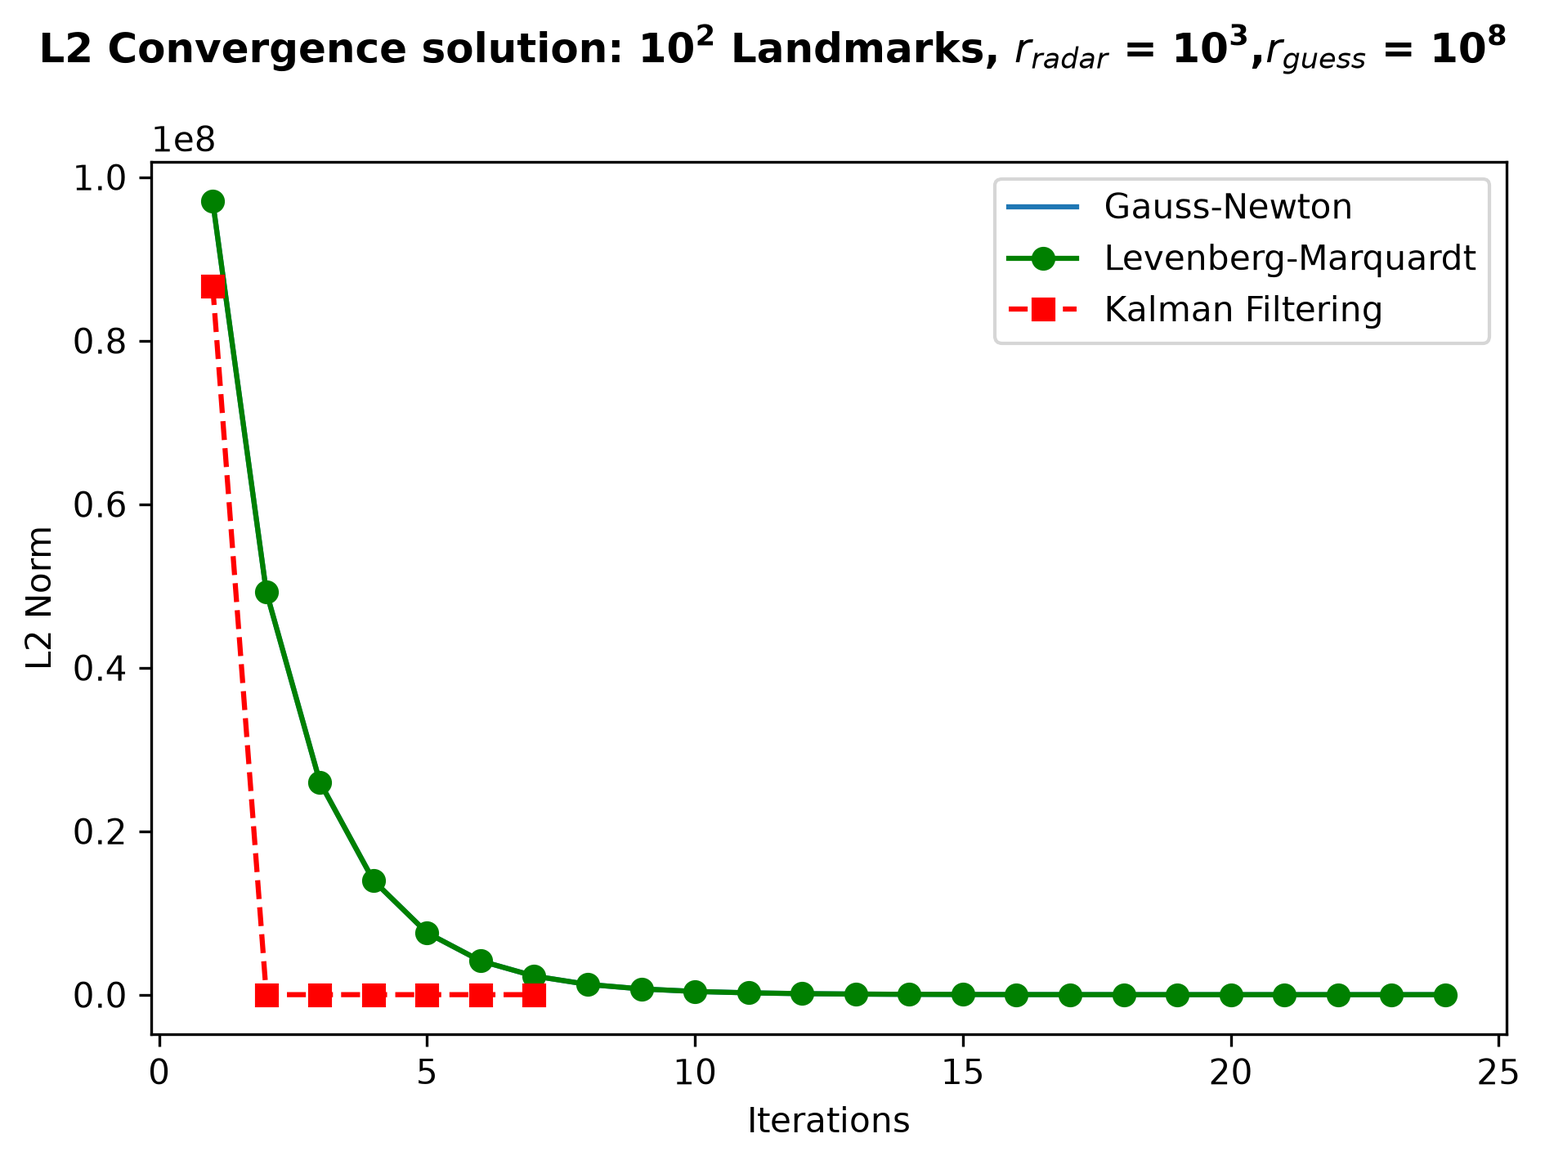
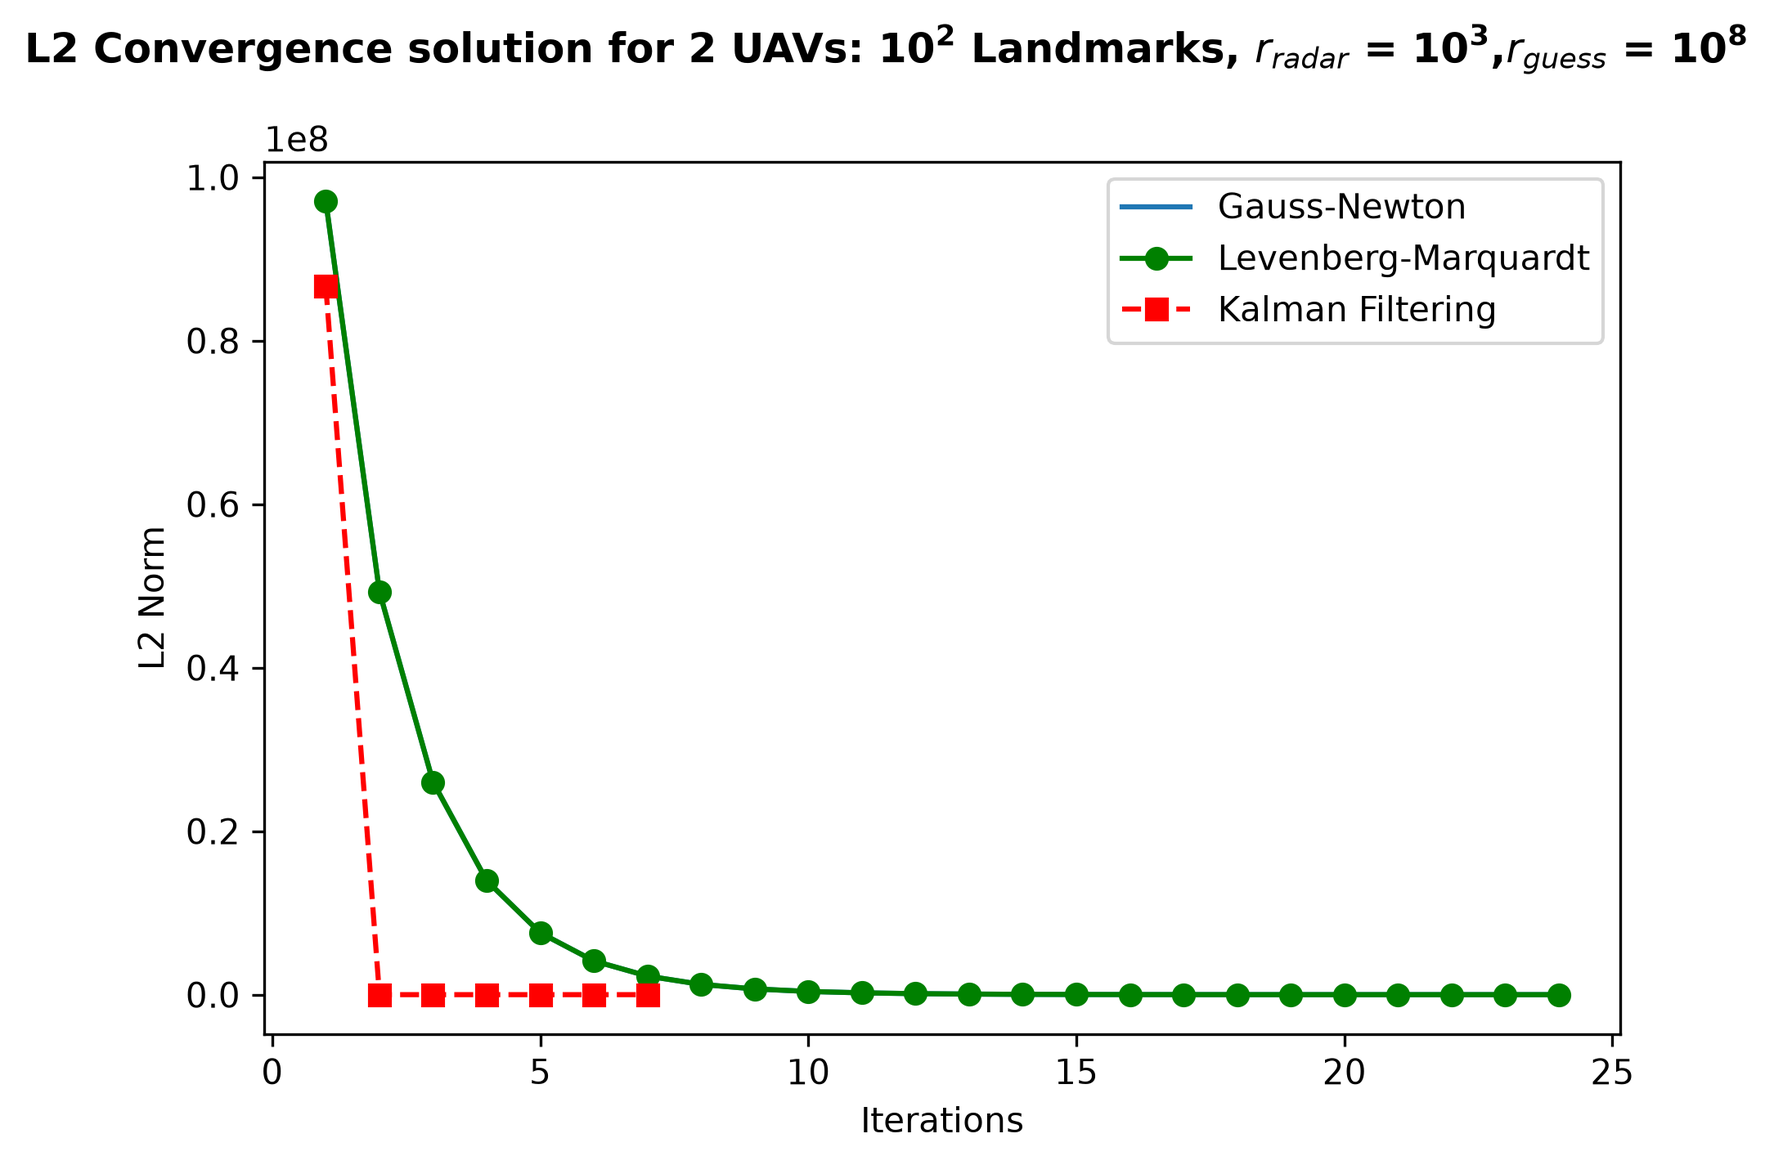
chore: improved technical documentation

diff --git a/UAVTracking_project/scripts/plots_UAVTracking.py b/UAVTracking_project/scripts/plots_UAVTracking.py
@@ -22,7 +22,7 @@ num_of_landmarks = formatter(UAVParameters[0])
 num_of_uavs = int(UAVParameters[1])
 radar_radius = formatter(UAVParameters[2])
 uav_guess_radius = formatter(UAVParameters[3])
-variance =formatter(UAVParameters[4])
+variance = formatter(UAVParameters[4])
 
 
 
@@ -53,7 +53,7 @@ KFWGNdata_iter = KFWGNdata_L2[:,0]
 KFWGNdata_L2Error = KFWGNdata_L2[:,1]
 
 
-plt.suptitle(rf"L2 Convergence solution: {num_of_landmarks} Landmarks, $r_{{radar}}$ = {radar_radius},$r_{{guess}}$ = {uav_guess_radius}",
+plt.suptitle(rf"L2 Convergence solution for {num_of_uavs} UAVs: {num_of_landmarks} Landmarks, $r_{{radar}}$ = {radar_radius},$r_{{guess}}$ = {uav_guess_radius}",
               fontsize=12, fontweight='bold')
 plt.plot(GNnoWGNdata_iter,GNnoWGNdata_L2Error, label='Gauss-Newton')
 plt.plot(LMnoWGNdata_iter,LMnoWGNdata_L2Error, color = 'g', marker = 'o',linestyle='-',label='Levenberg-Marquardt')
@@ -65,7 +65,7 @@ plt.tight_layout()
 plt.savefig('../plots/L2ConvergenceSolution.png', dpi=300, bbox_inches='tight')
 plt.show()
 
-plt.suptitle(rf"L2 Convergence solution, WGN: {num_of_landmarks} Landmarks,  $r_{{radar}}$ = {radar_radius}, $r_{{guess}}$ = {uav_guess_radius},$\sigma^2$ = {variance}",
+plt.suptitle(rf"L2 Convergence solution for {num_of_uavs} UAVs, WGN: {num_of_landmarks} Landmarks,  $r_{{radar}}$ = {radar_radius}, $r_{{guess}}$ = {uav_guess_radius},$\sigma^2$ = {variance}",
               fontsize=12, fontweight='bold')
 plt.plot(GNWGNdata_iter,GNWGNdata_L2Error, label='Gauss-Newton')
 plt.plot(LMWGNdata_iter,LMWGNdata_L2Error, color = 'g', marker = 'o',linestyle='-',label='Levenberg-Marquardt')
@@ -105,7 +105,7 @@ KFWGNdata_iterRes = KFWGNdata_L2Res[:,0]
 KFWGNdata_L2ErrorRes = KFWGNdata_L2Res[:,1]
 
 
-plt.suptitle(rf"L2 Convergence residual: {num_of_landmarks} Landmarks, $r_{{radar}}$ = {radar_radius}, $r_{{guess}}$ = {uav_guess_radius}",
+plt.suptitle(rf"L2 Convergence residual for {num_of_uavs} UAVs: {num_of_landmarks} Landmarks, $r_{{radar}}$ = {radar_radius}, $r_{{guess}}$ = {uav_guess_radius}",
               fontsize=12, fontweight='bold')
 plt.plot(GNnoWGNdata_iterRes,GNnoWGNdata_L2ErrorRes, label='Gauss-Newton')
 plt.plot(LMnoWGNdata_iter,LMnoWGNdata_L2ErrorRes, color = 'g', marker = 'o',linestyle='-',label='Levenberg-Marquardt')
@@ -118,7 +118,7 @@ plt.savefig('../plots/L2ConvergenceResidual.png', dpi=300, bbox_inches='tight')
 plt.legend()
 plt.show()
 
-plt.suptitle(rf"L2 Convergence residual, WGN: {num_of_landmarks} Landmarks, $r_{{radar}}$ = {radar_radius},$r_{{guess}}$ = {uav_guess_radius}, $\sigma^2$ = {variance}",
+plt.suptitle(rf"L2 Convergence residual for {num_of_uavs} UAVs, WGN: {num_of_landmarks} Landmarks, $r_{{radar}}$ = {radar_radius},$r_{{guess}}$ = {uav_guess_radius}, $\sigma^2$ = {variance}",
              fontsize=12, fontweight='bold')
 plt.plot(GNWGNdata_iterRes,GNWGNdata_L2ErrorRes, label='Gauss-Newton')
 plt.plot(LMWGNdata_iterRes,LMWGNdata_L2ErrorRes, color = 'g', marker = 'o',linestyle='-',label='Levenberg-Marquardt')
@@ -161,7 +161,7 @@ KFWGNdata_iterTime = KFWGNdata_Time[:,0]
 KFWGNdata_errorTime = KFWGNdata_Time[:,1]
 
 
-plt.suptitle(rf"Elapsed Time: {num_of_landmarks} Landmarks, $r_{{radar}}$ = {radar_radius},$r_{{guess}}$ = {uav_guess_radius}", fontsize=12,
+plt.suptitle(rf"Elapsed Time for {num_of_uavs} UAVs: {num_of_landmarks} Landmarks, $r_{{radar}}$ = {radar_radius},$r_{{guess}}$ = {uav_guess_radius}", fontsize=12,
               fontweight='bold')
 plt.plot(GNnoWGNdata_iterTime,GNnoWGNdata_errorTime, label='Gauss-Newton')
 plt.plot(LMnoWGNdata_iterTime,LMnoWGNdata_errorTime, color = 'g', marker = 'o',linestyle='-',label='Levenberg-Marquardt')
@@ -174,7 +174,7 @@ plt.savefig('../plots/ElapsedTime.png', dpi=300, bbox_inches='tight')
 plt.legend()
 plt.show()
 
-plt.suptitle(rf" Elapsed Time, WGN: {num_of_landmarks} Landmarks,  $r_{{radar}}$ = {radar_radius},$r_{{guess}}$ = {uav_guess_radius}, $\sigma^2$ = {variance}",
+plt.suptitle(rf" Elapsed Time for {num_of_uavs} UAVs, WGN: {num_of_landmarks} Landmarks,  $r_{{radar}}$ = {radar_radius},$r_{{guess}}$ = {uav_guess_radius}, $\sigma^2$ = {variance}",
              fontsize=12, fontweight='bold')
 plt.plot(GNWGNdata_iterTime,GNWGNdata_errorTime, label='Gauss-Newton')
 plt.plot(LMWGNdata_iterTime,LMWGNdata_errorTime, color = 'g', marker = 'o',linestyle='-',label='Levenberg-Marquardt')
@@ -292,19 +292,19 @@ def plotTelemetryBenchmark(iterTruth,iterEst,coordTruth,coordEst,Estmethod,n):
         # Panel for x-axis
         axs[0].plot(iterEst, EstcoordX, marker = 'o',linestyle='-', color='red', linewidth=2, label=rf'Estimated coordinate, UAV {i+1}')
         axs[0].plot(iterTruth, TruthcoordX, color='blue', linewidth=2, label =rf"Ground truth coordinate, UAV {i+1}")
-        axs[0].axhline(y=TruthcoordX[-1], color='green', linestyle='--', alpha=0.5)
+        axs[0].axhline(y=TruthcoordX[-1], color='green', linestyle='--', label = rf"Final Ground truth coordinate, UAV {i+1}", alpha=0.5)
         axs[0].set_ylabel("X-axis")
 
         # Panel for y-axis
         axs[1].plot(iterEst, EstcoordY, marker = 'o',linestyle='-', color='red', linewidth=2, label=rf'Estimated coordinate, UAV {i+1}')
         axs[1].plot(iterTruth, TruthcoordY, color='blue', linewidth=2, label=rf'Ground truth coordinate, UAV {i+1}')
-        axs[1].axhline(y=TruthcoordY[-1], color='green', linestyle='--', alpha=0.5)
+        axs[1].axhline(y=TruthcoordY[-1], color='green', linestyle='--',label = rf"Final Ground truth coordinate, UAV {i+1}", alpha=0.5)
         axs[1].set_ylabel("Y-axis")
 
         # Panel for z-axis
         axs[2].plot(iterEst, EstcoordZ, marker = 'o',linestyle='-', color='red', linewidth=2, label=rf'Estimated coordinate, UAV {i+1}')
         axs[2].plot(iterTruth, TruthcoordZ, color='blue', linewidth=2, label=rf'Ground truth coordinate, UAV {i+1}')
-        axs[2].axhline(y=TruthcoordZ[-1], color='green', linestyle='--', alpha=0.5)
+        axs[2].axhline(y=TruthcoordZ[-1], color='green', linestyle='--',label = rf"Final Ground truth coordinate, UAV {i+1}", alpha=0.5)
         axs[2].set_ylabel("Z-axis")
 
         for ax in axs:
@@ -332,19 +332,19 @@ def plotTelemetryBenchmark_WGN(iterTruth,iterEst,coordTruth,coordEst,Estmethod,n
         # Panel for x-axis
         axs[0].plot(iterEst, EstcoordX, marker = 'o',linestyle='-', color='red', linewidth=2, label=rf'Estimated coordinate, UAV {i+1}')
         axs[0].plot(iterTruth, TruthcoordX, color='blue', linewidth=2, label =rf"Ground truth coordinate, UAV {i+1}")
-        axs[0].axhline(y=TruthcoordX[-1], color='green', linestyle='--', alpha=0.5)
+        axs[0].axhline(y=TruthcoordX[-1], color='green', linestyle='--',label = rf"Final Ground truth coordinate, UAV {i+1}", alpha=0.5)
         axs[0].set_ylabel("X-axis")
 
         # Panel for y-axis
         axs[1].plot(iterEst, EstcoordY, marker = 'o',linestyle='-', color='red', linewidth=2, label=rf'Estimated coordinate, UAV {i+1}')
         axs[1].plot(iterTruth, TruthcoordY, color='blue', linewidth=2, label=rf'Ground truth coordinate, UAV {i+1}')
-        axs[1].axhline(y=TruthcoordY[-1], color='green', linestyle='--', alpha=0.5)
+        axs[1].axhline(y=TruthcoordY[-1], color='green', linestyle='--',label = rf"Final Ground truth coordinate, UAV {i+1}", alpha=0.5)
         axs[1].set_ylabel("Y-axis")
 
         # Panel for z-axis
         axs[2].plot(iterEst, EstcoordZ, marker = 'o',linestyle='-', color='red', linewidth=2, label=rf'Estimated coordinate, UAV {i+1}')
         axs[2].plot(iterTruth, TruthcoordZ, color='blue', linewidth=2, label=rf'Ground truth coordinate, UAV {i+1}')
-        axs[2].axhline(y=TruthcoordZ[-1], color='green', linestyle='--', alpha=0.5)
+        axs[2].axhline(y=TruthcoordZ[-1], color='green', linestyle='--',label = rf"Final Ground truth coordinate, UAV {i+1}", alpha=0.5)
         axs[2].set_ylabel("Z-axis")
 
         for ax in axs:

diff --git a/UAVTracking_project/include/LevenbergMarquardt.h b/UAVTracking_project/include/LevenbergMarquardt.h
@@ -19,13 +19,13 @@ MatrixCalculations<T> matcalc;
 public:
 
 //A term based on the Trust Region logic for the Levenberg-Marquardt method
-auto GainRatio(TrackingParameters& trackingParams, const Matrix<T>& R, const Matrix<T>& b_tilde,const Matrix<T>& x_dir_vec, const T& lambda)const{
-
+auto GainRatio(TrackingParameters& trackingParams, const Matrix<T>& R, const Matrix<T>& b_tilde,const Matrix<T>& x_dir_vec)const{
+//Transform vectorized step to appropriate matrix form
 Matrix<T> transformedSolution = matcalc.transformVectorToMatrix(x_dir_vec,trackingParams.UAVGuess.getRows());
 Matrix<T> x_trial = trackingParams.UAVGuess + transformedSolution;
 T nom = 0.0;
 T rho = 0.0;
-//Expected cost function value
+//Actual cost function value
 for(size_t i = 0;i < transformedSolution.getRows();i++){
    Matrix<T> row_vec1 = trackingParams.UAVGuess.getRow(i);
    Matrix<T> row_vec2 = x_trial.getRow(i);
@@ -33,9 +33,9 @@ for(size_t i = 0;i < transformedSolution.getRows();i++){
    T nom_2 = matcalc.square(matcalc.L2Norm(matcalc.distanceMetric(trackingParams.mat,row_vec2)));
    nom += 0.5*(nom_1 - nom_2); 
 }
-//Actual cost function value via QR-decomposition
+//Expected cost function value via QR-decomposition
 T denom_term1 = 0.5*(matcalc.square(matcalc.L2Norm(b_tilde)) - matcalc.square(matcalc.L2Norm(R*x_dir_vec - b_tilde)));
-T denom_term2 = 0.5*lambda*matcalc.square(matcalc.L2Norm(x_dir_vec));
+T denom_term2 = 0.5*trackingParams.lambda*matcalc.square(matcalc.L2Norm(x_dir_vec));
 
 T denom = denom_term1 - denom_term2;
 //Preventing NaN-situations
@@ -65,7 +65,7 @@ Matrix<T> dir_vec(R.getRows(),1);
        //Solve least squares problem
        dir_vec = matcalc.BackwardSubstitution(R_filtered,btilde_filtered);
        //Calculate Gain Ratio for making a trial decision
-       T rho = GainRatio(trackingParams,R_filtered,btilde_filtered,dir_vec,trackingParams.lambda);
+       T rho = GainRatio(trackingParams,R_filtered,btilde_filtered,dir_vec);
        std::cout<< "\nLambda: " << trackingParams.lambda << "\n";
        std::cout<< "\nRho: " << rho << "\n";
        if(std::abs(rho) < uavParams.est.rho_threshold || trackingParams.lambda == 0.0){

diff --git a/UAVTracking_project/include/UAVTracking.h b/UAVTracking_project/include/UAVTracking.h
@@ -19,7 +19,9 @@
  *  method. The kinematic model is first-order by the formula x_{k+1} = x_{k} + h*v_{k}
  *  for a velocity vector v_{k} at state k.
  * - Noise sources: In this application, an option to add White Gaussian Noise to the true distances of the UAVs relative to landmarks,
- *  is now possible.
+ *  is now possible. 
+ * Kalman filtering: UAVs in this project are mutually independent meaning that the covariance matrix P that describes the uncertainty in
+ *  the initial state simply is the diagonal matrix with diagonal elements that is the variance for the maximal UAV positional offset. 
 
  * */ 
 
@@ -224,7 +226,8 @@ size_t iter = 0;
 
 //Initialize covariance matrix P for the Kalman filtering approach
 Matrix<T> IdentityMatrix_termP = matcalc.getIdentityMatrix(3*uavParams.dimension.num_of_uavs);
-//P is treated initially as the diagonal matrix consisting of squared maximal UAV positional error measured in meters
+//P is treated initially as the diagonal matrix consisting of squared maximal UAV positional error measured in meters, meaning P measures symmetric
+//uncertainty in the initial states for the UAVs
 Matrix<T> P = IdentityMatrix_termP.scalarMatrix(matcalc.square(uavParams.posParams.maximal_offset));
 TrackingParameters TrackingParams{LandmarkMatrix,UAVTruth,UAVGuess,P,lambda};
 
@@ -238,7 +241,7 @@ while(MissionStillContinuing){
       auto t_start = std::chrono::steady_clock::now();
 
       //Perform kinematic prediction whether the moving UAVs should make a reversed movement in current state or not
-      physconst.predictKinematicMovement(uavParams,TrackingParams.UAVGuess,TrackingParams.UAVTruth,iter,vel_uav_seed,vel_wind_seed);
+      physconst.predictKinematicMovement(uavParams,TrackingParams,iter,vel_uav_seed,vel_wind_seed);
   
       //Solve the numerical estimation problem
       auto est_output = state_est.State_Estimator(uavParams,TrackingParams,varianceParams);

diff --git a/UAVTracking_project/tests/test_StateEstimator.cpp b/UAVTracking_project/tests/test_StateEstimator.cpp
@@ -45,9 +45,9 @@ UAVGuess(0,1) = 1.0;
 UAVGuess(0,2) = 1.0;
 
 TrackingParameters trackingParams{LandmarkMatrix,UAVTruth,UAVGuess,P,lambda};
-auto uft_output = state_est.State_Estimator(uavParams,trackingParams,varianceParams);
-std::cout << "Norm, dir vec: " << uft_output.dir_vec_normval;
-std::cout << "Norm, residual: " << uft_output.res_normval;
+auto est_output = state_est.State_Estimator(uavParams,trackingParams,varianceParams);
+std::cout << "Norm, dir vec: " << est_output.dir_vec_normval;
+std::cout << "Norm, residual: " << est_output.res_normval;
 Matrix<double> x_est(1,3);
 
 x_est(0,0) = 3 - 2*std::sqrt(2);
@@ -106,9 +106,9 @@ UAVGuess(0,2) = 1.0;
 
 TrackingParameters trackingParams{LandmarkMatrix,UAVTruth,UAVGuess,P,lambda};
 
-auto uft_output = state_est.State_Estimator(uavParams,trackingParams,varianceParams);
-std::cout << "Norm, dir vec: " << uft_output.dir_vec_normval;
-std::cout << "Norm, residual: " << uft_output.res_normval;
+auto est_output = state_est.State_Estimator(uavParams,trackingParams,varianceParams);
+std::cout << "Norm, dir vec: " << est_output.dir_vec_normval;
+std::cout << "Norm, residual: " << est_output.res_normval;
 Matrix<double> x_est(1,3);
 
 x_est(0,0) = 3 - 2*std::sqrt(2);
@@ -171,9 +171,9 @@ UAVGuess(0,2) = 1.0;
 
 TrackingParameters trackingParams{LandmarkMatrix,UAVTruth,UAVGuess,P,lambda};
 
-auto uft_output = state_est.State_Estimator(uavParams,trackingParams,varianceParams);
-std::cout << "Norm, dir vec: " << uft_output.dir_vec_normval;
-std::cout << "Norm, residual: " << uft_output.res_normval;
+auto est_output = state_est.State_Estimator(uavParams,trackingParams,varianceParams);
+std::cout << "Norm, dir vec: " << est_output.dir_vec_normval;
+std::cout << "Norm, residual: " << est_output.res_normval;
 Matrix<double> x_est(1,3);
 
 x_est(0,0) = 3 - 2*std::sqrt(2);

diff --git a/UAVTracking_project/include/KalmanFilter.h b/UAVTracking_project/include/KalmanFilter.h
@@ -18,9 +18,9 @@ MatrixCalculations<T> matcalc;
 
 public:
 
-//Update the covariance matrix P to the calibration relating to the kinematic movement phase
+//Update the covariance matrix P based on the calibration relating to the kinematic movement phase
 void updateCalibration(const UAVTracking_parameters& uavParams, Matrix<T>& P)const{
-//Calibration based on kinematic movement for the UAVs
+//Covariance matrix Q describing the uncertainty in the kinematic movement for the UAVs
 Matrix<T> IdentityMatrix_termQ = matcalc.getIdentityMatrix(3*uavParams.dimension.num_of_uavs);
 T Qterm_1 = matcalc.square(uavParams.dynamical_UAV_params.max_uav_velocity*uavParams.dynamical_UAV_params.h);
 T Qterm_2 = matcalc.square(uavParams.dynamical_UAV_params.max_wind_velocity*uavParams.dynamical_UAV_params.h);
@@ -39,12 +39,11 @@ Matrix<T> KalmanFiltering(const UAVTracking_parameters& uavParams,const Matrix<T
 
 Matrix<T> Mat_term = P*J.Transpose();
 //Regularization matrix to prevent ill-posed behavior (Tikhonov Regularization) for solving the system of equations below
-Matrix<T> Rnoise(uavParams.dimension.num_of_landmarks*uavParams.dimension.num_of_uavs,uavParams.dimension.num_of_landmarks*uavParams.dimension.num_of_uavs);
-for(size_t i = 0;i < Rnoise.getRows();i++){
-   Rnoise(i,i) = uavParams.est.tau;
-}
+size_t m = uavParams.dimension.num_of_landmarks*uavParams.dimension.num_of_uavs;
+Matrix<T> R_part = matcalc.getIdentityMatrix(m);
+Matrix<T> R_noise = R_part.scalarMatrix(uavParams.est.tau);
 //State transition matrix
-Matrix<T> S = J*Mat_term + Rnoise;
+Matrix<T> S = J*Mat_term + R_noise;
 Matrix<T> rhs_term = J*P.Transpose();
 Matrix<T> S_T = S.Transpose();
 auto [R,b_tilde] = matcalc.QRDecomposition_GivensApproach(S_T,rhs_term,uavParams.est.eps);

diff --git a/UAVTracking_project/include/PhysicalConstraints.h b/UAVTracking_project/include/PhysicalConstraints.h
@@ -23,7 +23,7 @@ MatrixCalculations<T> matcalc;
 
 public:
 
-//Generates a velocity vector for treating the UAV movement 
+//Generates a velocity vector for treating a moving object 
 Matrix<T> getVelocity(size_t& vel_seed, const T& max_velocity)const{
 if(max_velocity < 0){
   throw std::invalid_argument("The radar system couldn't be constructed. Reason: Negative maximal velocity."); 
@@ -74,14 +74,14 @@ return false;
 }
 
 // A method that performs the kinematic movement prediction
-void predictKinematicMovement(const UAVTracking_parameters& uavParams,Matrix<T>& UAVGuess,Matrix<T>& UAVTruth,
+void predictKinematicMovement(const UAVTracking_parameters& uavParams,TrackingParameters& trackingParams,
    const size_t& iter, Matrix<size_t>& uav_vel_seed, Matrix<size_t>& wind_vel_seed)const{
     
    for(size_t i = 0;i < uavParams.dimension.num_of_uavs;i++){
       Matrix<T> vel_vec(3,1);
       Matrix<T> uav_t(3,1);
       for(size_t j = 0;j < 3;j++){
-         uav_t(j,0) = UAVTruth(i,j);
+         uav_t(j,0) = trackingParams.UAVTruth(i,j);
       }
       size_t uav_vel_val = iter + uav_vel_seed(i,0);
       size_t wind_vel_val = iter + wind_vel_seed(i,0);
@@ -99,8 +99,8 @@ void predictKinematicMovement(const UAVTracking_parameters& uavParams,Matrix<T>&
          }
       
       for(size_t j = 0;j < 3;j++){
-         UAVTruth(i,j) += uavParams.dynamical_UAV_params.h*vel_vec(j,0); 
-         UAVGuess(i,j) += uavParams.dynamical_UAV_params.h*vel_vec(j,0);
+         trackingParams.UAVTruth(i,j) += uavParams.dynamical_UAV_params.h*vel_vec(j,0); 
+         trackingParams.UAVGuess(i,j) += uavParams.dynamical_UAV_params.h*vel_vec(j,0);
        }    
    }
   

diff --git a/UAVTracking_project/include/UAVMission_Solver.h b/UAVTracking_project/include/UAVMission_Solver.h
@@ -25,7 +25,7 @@ void UAVTracking_Solver(const UAVTracking_parameters& uavParams)const{
 if(uavParams.dynamical_UAV_params.h <= 0 || uavParams.est.eps <= 0 || uavParams.est.tau <= 0 || uavParams.est.lambda_threshold <= 0 ||
     uavParams.est.lambda_tuning_factor <= 0 || uavParams.est.beta <= 0  || uavParams.est.c_param <= 0
    || uavParams.est.rho_threshold <= 0 || uavParams.est.eps_0 <= 0 || uavParams.posParams.maximal_offset < 0){
-  throw std::invalid_argument("The mission couldn't start. Reason: Non-positive values for the hyperparameters related to the choosen numerical estimator.");
+  throw std::invalid_argument("The mission couldn't start. Reason: Non-positive values for the parameters related to the choosen numerical estimator.");
 }
 //Checks if the variance is positive
 if(uavParams.variance.variance_distances <= 0){

diff --git a/UAVTracking_project/include/generateRadarStructure.h b/UAVTracking_project/include/generateRadarStructure.h
@@ -120,7 +120,7 @@ for(size_t i = 0; i < init_matrix.getRows();i++){
 //Generate the radar
 
 auto generateRadar(const UAVTracking_parameters& uavParams, const Matrix<size_t>& landmark_seed,const Matrix<size_t>& uav_truth_seed,
-   const Matrix<size_t>& uav_guess_seed) const{
+const Matrix<size_t>& uav_guess_seed) const{
 //Controls the radial feasibility
 if(uavParams.posParams.radar_radius <= 0 || uavParams.posParams.uav_guess_radius <= 0){
    throw std::invalid_argument("The radar system couldn't be constructed. Reason: Invalid radii or radial offsets.");

diff --git a/UAVTracking_project/include/UAVTracking_parameters.h b/UAVTracking_project/include/UAVTracking_parameters.h
@@ -64,7 +64,7 @@ struct UAVPosParams{
 double radar_radius = 0.0;
 // A radial bound that determines if the initial guesses for the UAV positions are inside or outside the radar perimeter
 double uav_guess_radius = 0.0;
-//A maximal positional error term known from radar measurements, used for initializing the covariance matrix P 
+//A maximal positional error term known from radar measurements, used for initializing the covariance matrix P that describes uncertainty in initial states
 double maximal_offset = 0.0;
 };
 

diff --git a/UAVTracking_project/include/MatrixCalculations.h b/UAVTracking_project/include/MatrixCalculations.h
@@ -100,7 +100,7 @@ for(size_t i = 0;i < n;i++){
 return mat;
 }
 
-//Method that constructs a Jacobian matrix and residual vector for data assimilation relating to UAV positions
+//Method that constructs a block matrix of Jacobians and a vectorized residual vector for data assimilation relating to estimating UAV positions
 auto GenerateMatrixData(const UAVTracking_parameters& uavParams, const TrackingParameters& trackingParams, const Matrix<T>& guess,
     const std::tuple<Matrix<size_t>,size_t> varianceParams)const{
 

diff --git a/UAVTracking_project/include/StateEstimator.h b/UAVTracking_project/include/StateEstimator.h
@@ -87,7 +87,7 @@ return alpha;
 //The numerical estimation solver for the UAV Tracking problem: it either uses Gauss-Newton, Levenberg-Marquardt or an approach using Kalman filtering
 //techniques
 auto State_Estimator(const UAVTracking_parameters& uavParams, TrackingParameters& trackingParams,
-const std::tuple<Matrix<size_t>,size_t>& varianceParams)const{
+  const std::tuple<Matrix<size_t>,size_t>& varianceParams)const{
   
   EstOutput est_output;
   Matrix<T> dir_vec(3*uavParams.dimension.num_of_uavs,1);

diff --git a/ReadMe.md b/ReadMe.md
@@ -139,7 +139,9 @@ The radar environment follows a spherical coordinate system centered at the orig
 
 Radar observations are either ideal or affected by potential noisy data sources using White Gaussian Noise to generate real-world sensor uncertainty  relating to true distances of the UAV positions relative to landmark locations. 
 
-Estimated positions are calculated through nonlinear least-squares optimization using an implemented numerical estimation method strategy: Gauss-Newton, Levenberg-Marquardt or an approach using Kalman filtering techniques.
+Estimated positions are calculated through nonlinear least-squares optimization using an implemented numerical estimation method strategy: Gauss-Newton, Levenberg-Marquardt or an approach using Kalman filtering techniques. 
+
+The UAVs are mutally independent meaning that the covariance matrix P describing uncertainty in the initial states is initialized as the diagonal matrix with diagonal elements as the variance for the maximal positional UAV error offset.
 
 The goal of this mathematical framework is to study estimation performance behavior under real-world physical constraints.
 
